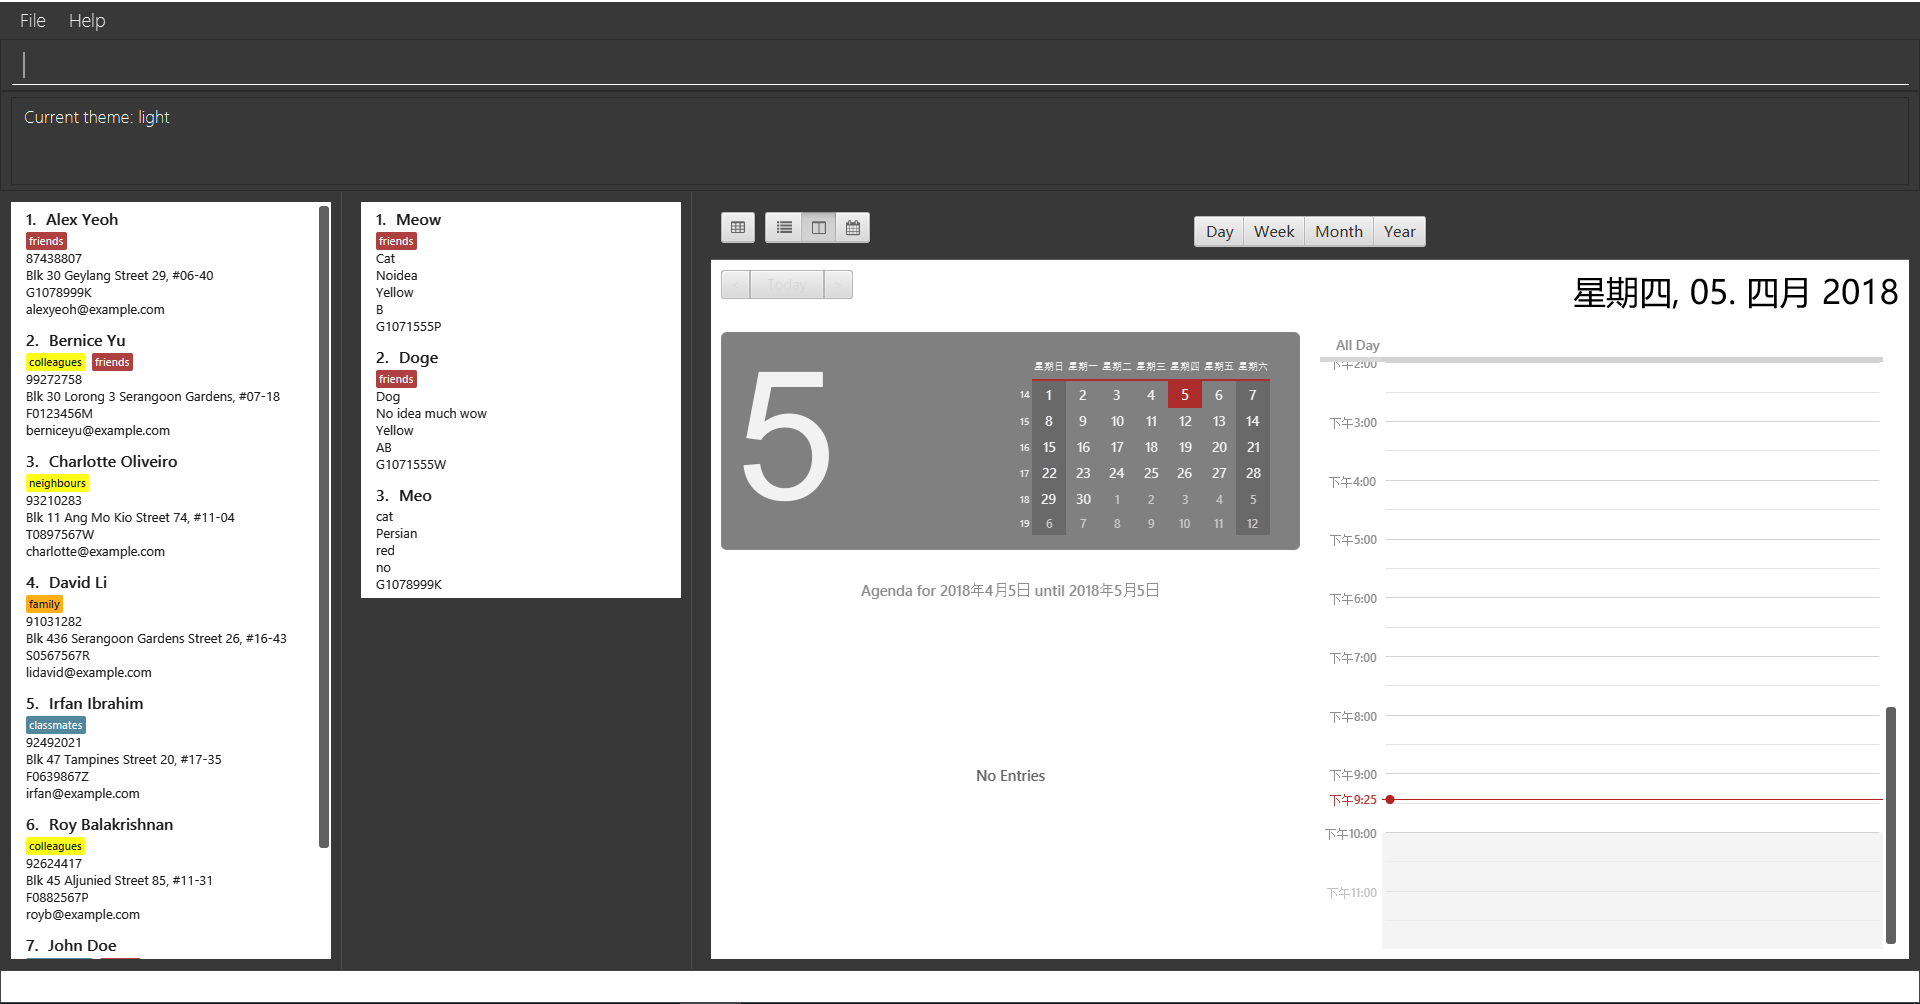
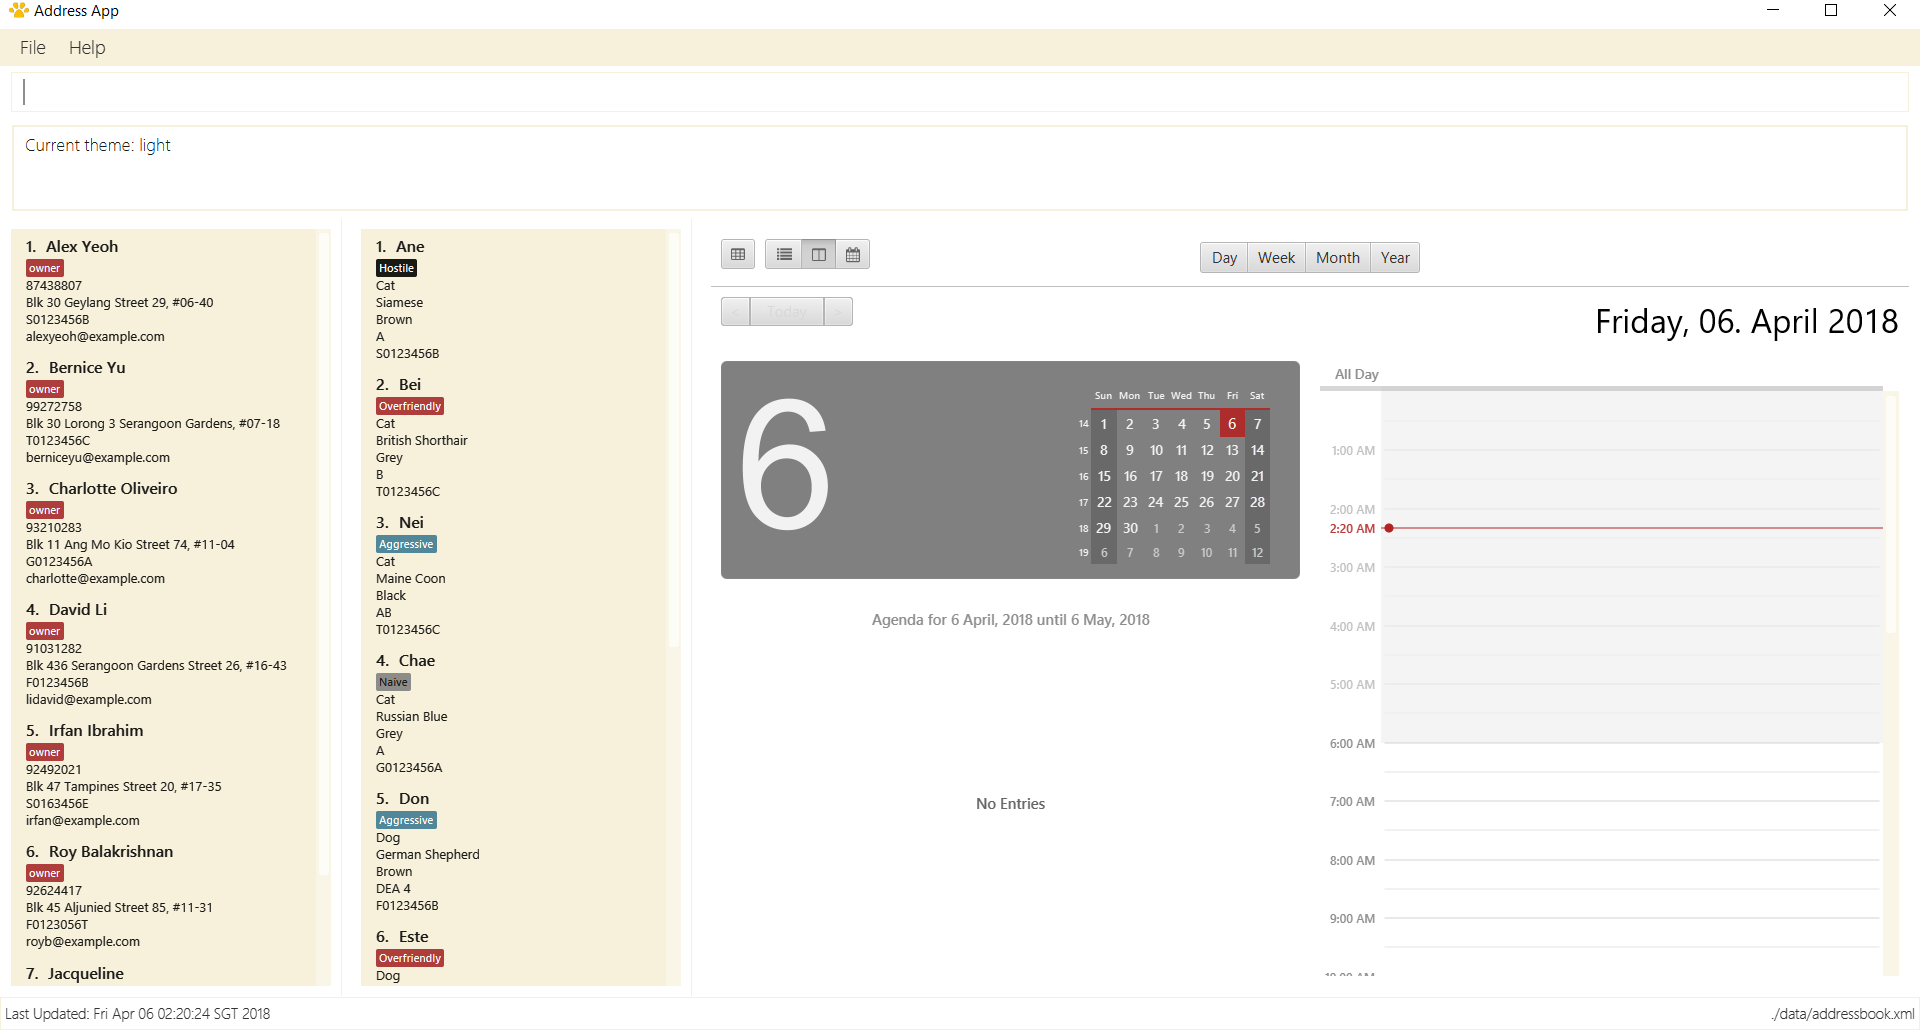
Update UG and add new light theme

diff --git a/src/main/resources/view/LightTheme.css b/src/main/resources/view/LightTheme.css
@@ -40,8 +40,8 @@
 }
 
 .table-view {
-    -fx-base: #1d1d1d;
-    -fx-control-inner-background: #1d1d1d;
+    -fx-base: #f7f1dc;
+    -fx-control-inner-background: #f7f1dc;
     -fx-background-color: white;
     -fx-table-cell-border-color: transparent;
     -fx-table-header-border-color: transparent;
@@ -77,14 +77,14 @@
 }
 
 .split-pane:horizontal .split-pane-divider {
-    -fx-background-color: derive(#1d1d1d, 20%);
-    -fx-border-color: transparent transparent transparent #4d4d4d;
+    -fx-background-color: derive(white, 20%);
+    -fx-border-color: transparent transparent transparent #f7f1dc;;
 }
 
 .split-pane {
     -fx-border-radius: 1;
     -fx-border-width: 1;
-    -fx-background-color: derive(#1d1d1d, 20%);
+    -fx-background-color: derive(white, 20%);
 }
 
 .list-view {
@@ -100,7 +100,7 @@
 }
 
 .list-cell:filled:even {
-    -fx-background-color: white;
+    -fx-background-color: #f7f1dc;
 }
 
 .list-cell:filled:odd {
@@ -133,25 +133,26 @@
 }
 
 .anchor-pane {
-     -fx-background-color: derive(#1d1d1d, 20%);
+     -fx-background-color: derive(white, 20%);
 }
 
 .pane-with-border {
-     -fx-background-color: derive(#1d1d1d, 20%);
-     -fx-border-color: derive(#1d1d1d, 10%);
+     -fx-background-color: derive(white, 20%);
+     -fx-border-color: derive(white, 10%);
      -fx-border-top-width: 1px;
 }
 
 .status-bar {
-    -fx-background-color: derive(#1d1d1d, 20%);
+    -fx-background-color: derive(white, 20%);
     -fx-text-fill: black;
 }
 
 .result-display {
-    -fx-background-color: transparent;
+    -fx-background-color: #f7f1dc;
     -fx-font-family: "Segoe UI Light";
     -fx-font-size: 13pt;
-    -fx-text-fill: white;
+    -fx-text-fill: #1d1d1d;
+	-fx-border-color: #f7f1dc;
 }
 
 .result-display .label {
@@ -160,12 +161,12 @@
 
 .status-bar .label {
     -fx-font-family: "Segoe UI Light";
-    -fx-text-fill: white;
+    -fx-text-fill: #1d1d1d;
 }
 
 .status-bar-with-border {
-    -fx-background-color: derive(#1d1d1d, 30%);
-    -fx-border-color: derive(#1d1d1d, 25%);
+    -fx-background-color: derive(white, 30%);
+    -fx-border-color: derive(white, 25%);
     -fx-border-width: 1px;
 }
 
@@ -174,8 +175,8 @@
 }
 
 .grid-pane {
-    -fx-background-color: derive(#1d1d1d, 30%);
-    -fx-border-color: derive(#1d1d1d, 30%);
+    -fx-background-color: derive(white, 30%);
+    -fx-border-color: #f7f1dc;
     -fx-border-width: 1px;
 }
 
@@ -192,18 +193,18 @@
 }
 
 .menu-bar {
-    -fx-background-color: derive(#1d1d1d, 20%);
+    -fx-background-color: #f7f1dc;
 }
 
 .menu-bar .label {
     -fx-font-size: 14pt;
     -fx-font-family: "Segoe UI Light";
-    -fx-text-fill: white;
+    -fx-text-fill: #1d1d1d;
     -fx-opacity: 0.9;
 }
 
 .menu .left-container {
-    -fx-background-color: black;
+    -fx-background-color: white;
 }
 
 /*
@@ -224,7 +225,7 @@
 }
 
 .button:hover {
-    -fx-background-color: #3a3a3a;
+    -fx-background-color: #dce2f7;
 }
 
 .button:pressed, .button:default:hover:pressed {
@@ -256,11 +257,11 @@
 }
 
 .dialog-pane {
-    -fx-background-color: #1d1d1d;
+    -fx-background-color: #f7f1dc;
 }
 
 .dialog-pane > *.button-bar > *.container {
-    -fx-background-color: #1d1d1d;
+    -fx-background-color: white;
 }
 
 .dialog-pane > *.label.content {
@@ -270,22 +271,22 @@
 }
 
 .dialog-pane:header *.header-panel {
-    -fx-background-color: derive(#1d1d1d, 25%);
+    -fx-background-color: derive(white, 25%);
 }
 
 .dialog-pane:header *.header-panel *.label {
     -fx-font-size: 18px;
     -fx-font-style: italic;
     -fx-fill: white;
-    -fx-text-fill: white;
+    -fx-text-fill: #1d1d1d;
 }
 
 .scroll-bar {
-    -fx-background-color: derive(white, 20%);
+    -fx-background-color: derive(#f7f1dc, 20%);
 }
 
 .scroll-bar .thumb {
-    -fx-background-color: derive(#1d1d1d, 50%);
+    -fx-background-color: derive(#f7f1dc, 50%);
     -fx-background-insets: 3;
 }
 
@@ -307,7 +308,7 @@
 }
 
 #cardPane {
-    -fx-background-color: transparent;
+    -fx-background-color: #f7f1dc;
     -fx-border-width: 0;
 }
 
@@ -319,12 +320,12 @@
 #commandTextField {
     -fx-background-color: transparent #383838 transparent #383838;
     -fx-background-insets: 0;
-    -fx-border-color: #383838 #383838 #ffffff #383838;
+    -fx-border-color: #f7f1dc #f7f1dc #f7f1dc #f7f1dc;
     -fx-border-insets: 0;
     -fx-border-width: 1;
     -fx-font-family: "Segoe UI Light";
     -fx-font-size: 13pt;
-    -fx-text-fill: white;
+    -fx-text-fill: #1d1d1d;
 }
 
 #filterField, #personListPanel, #personWebpage {
@@ -332,7 +333,7 @@
 }
 
 #resultDisplay .content {
-    -fx-background-color: transparent, #383838, transparent, #383838;
+    -fx-background-color: transparent, white, transparent, white;
     -fx-background-radius: 0;
 }
 
